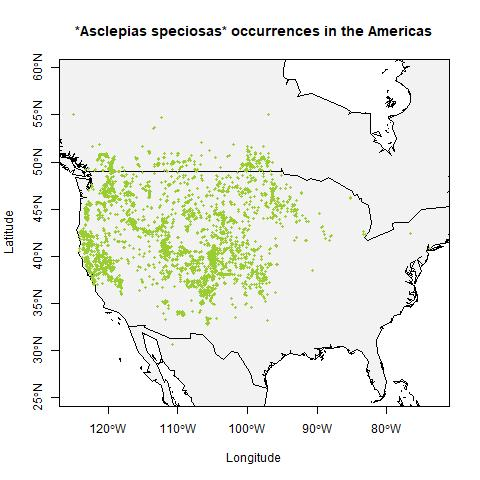
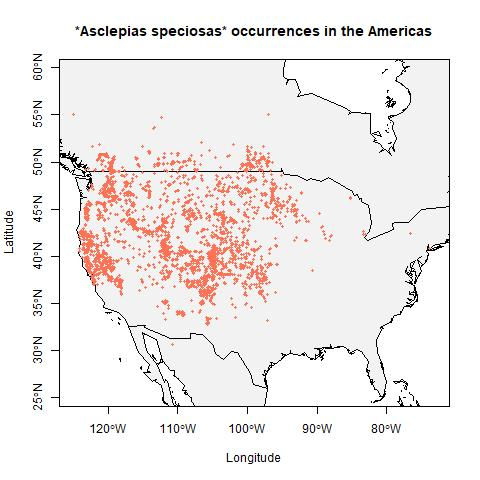
Change color of species occurrence, and try to resize images again

Changed region(s): [[0.1562, 0.2812, 0.6562, 0.6875], [0.75, 0.4688, 0.7812, 0.5], [0.6562, 0.4688, 0.6875, 0.5]]

diff --git a/Asclepias_speciosa_SSA.md b/Asclepias_speciosa_SSA.md
@@ -5,7 +5,7 @@
 
 By: Deanna Sunnergren, Caelan Wilkie-Rogers, and Maxine Cruz || Created: March 2022
 
-![alt text](https://github.com/BiodiversityDataScienceCorp/milkfli-mapping/blob/main/Photos/monarch_on_showy.jpg)
+![alt text](https://github.com/BiodiversityDataScienceCorp/milkfli-mapping/blob/main/Photos/monarch_on_showy.jpg)<img src = "https://github.com/BiodiversityDataScienceCorp/milkfli-mapping/blob/main/Photos/monarch_on_showy.jpg" width="50%" height="50%">
 
 ## About the Showy Milkweed (*A. speciosa*)
 
@@ -60,7 +60,7 @@ About this
 ### Methods
 How we do this
 
-![alt text](https://github.com/BiodiversityDataScienceCorp/milkfli-mapping/blob/main/Outputs/showy_milkweed_occurrence_map.jpg?raw=true)<img src = "https://github.com/BiodiversityDataScienceCorp/milkfli-mapping/blob/main/Outputs/showy_milkweed_occurrence_map.jpg?raw=true" width="50%" height="50%">
+![alt text](https://github.com/BiodiversityDataScienceCorp/milkfli-mapping/blob/main/Outputs/A_speciosa_occurrence_map.jpg)
 
 
 ## Current Species Distribution
